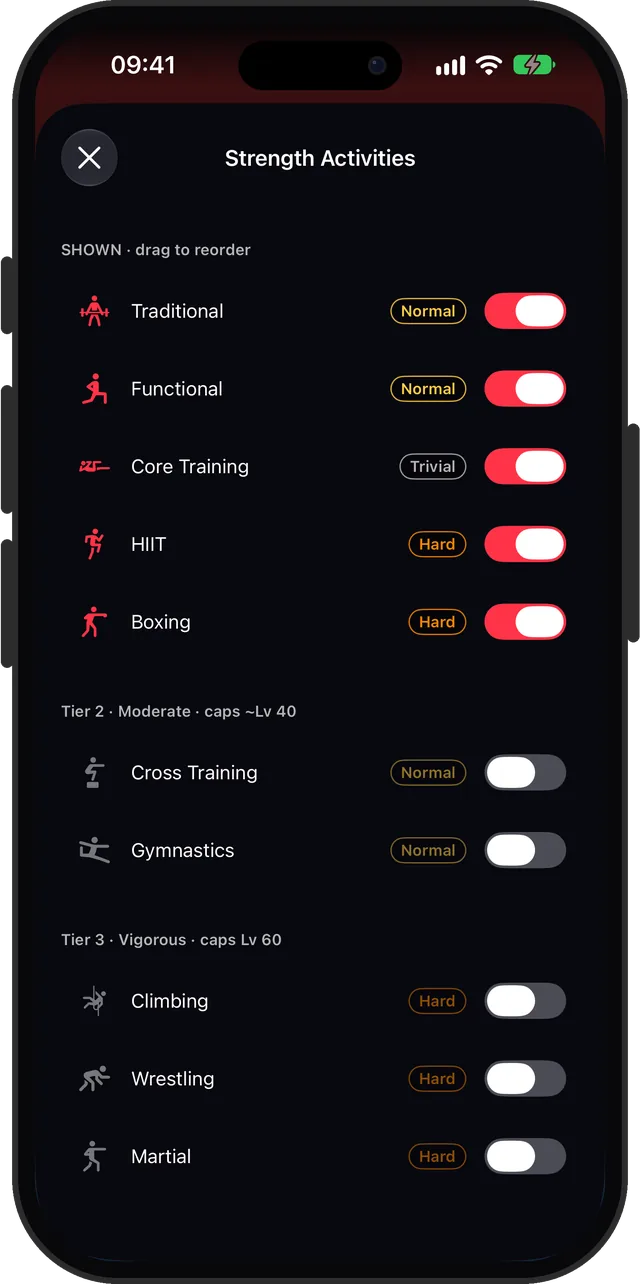
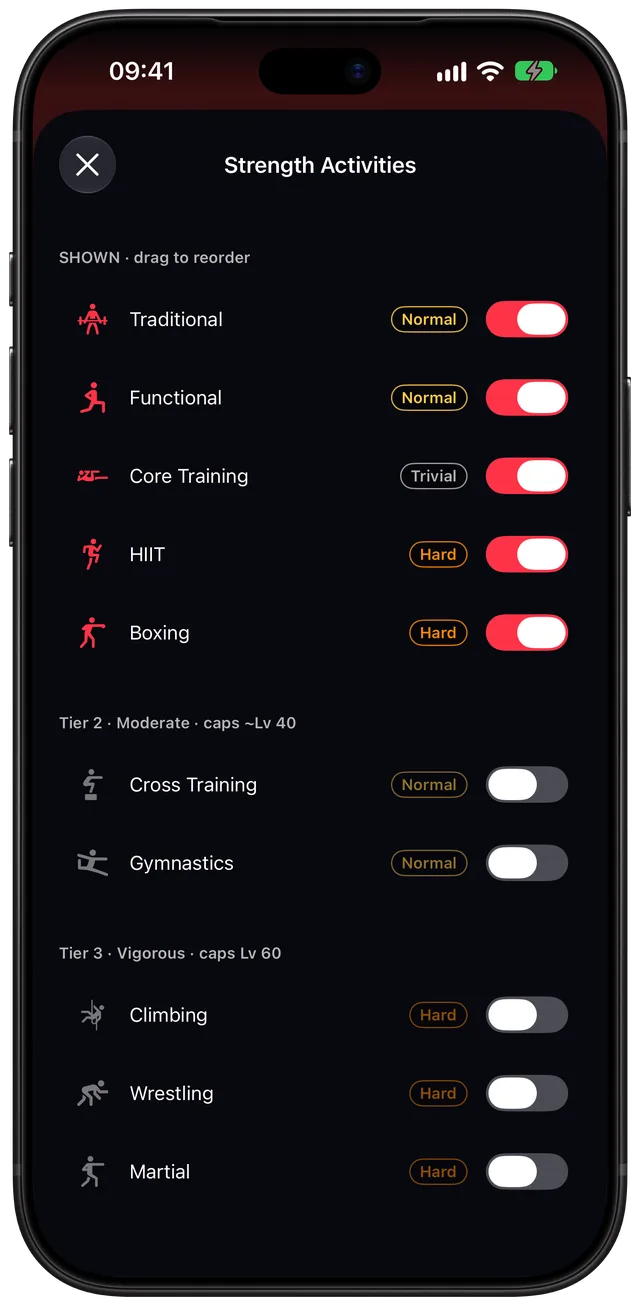
Phone images in Apple's own iPhone 18 Pro Max bezel
Replaces the drawn shell (and its painted island) with Apple's product bezel from Design Resources,
via Holocron tools/web-frames/apple_bezel.py; the bezel PNGs stay outside the repo. Any island already
in a capture is erased first so Apple's smaller one doesn't show a ghost. Every framed shot is now
640x1306 (Rise 600x1224); img width/height updated to match, PNG twins regenerated.
Layouts unchanged: Emil's call (Holocron brand.md 2026-11-01).

diff --git a/index.html b/index.html
@@ -197,7 +197,7 @@
       </div>
     </div>
     <div class="hero-art">
-      <img class="screen" src="/assets/shot-home.webp" onerror="this.onerror=null;this.src='/assets/shot-home.png'" alt="CharacterSheet on iPhone: a level 29 character with six stats, a 21-day Momentum streak, Daily willpower and quests" width="640" height="1284" fetchpriority="high">
+      <img class="screen" src="/assets/shot-home.webp" onerror="this.onerror=null;this.src='/assets/shot-home.png'" alt="CharacterSheet on iPhone: a level 29 character with six stats, a 21-day Momentum streak, Daily willpower and quests" width="640" height="1306" fetchpriority="high">
     </div>
   </div>
 </section>
@@ -317,101 +317,101 @@
       <div class="shots-track">
         <div class="shots-set">
           <figure>
-            <img class="screen" src="/assets/shot-home.webp" onerror="this.onerror=null;this.src='/assets/shot-home.png'" alt="CharacterSheet Home: a level 29 character with six stats, a 21-day Momentum streak, Daily willpower and quests" loading="lazy" width="640" height="1284">
+            <img class="screen" src="/assets/shot-home.webp" onerror="this.onerror=null;this.src='/assets/shot-home.png'" alt="CharacterSheet Home: a level 29 character with six stats, a 21-day Momentum streak, Daily willpower and quests" loading="lazy" width="640" height="1306">
             <figcaption>Level up in real life</figcaption>
           </figure>
           <figure>
-            <img class="screen" src="/assets/shot-recap.webp" onerror="this.onerror=null;this.src='/assets/shot-recap.png'" alt="The recap of yesterday: the XP each stat earned, session by session" loading="lazy" width="640" height="1284">
+            <img class="screen" src="/assets/shot-recap.webp" onerror="this.onerror=null;this.src='/assets/shot-recap.png'" alt="The recap of yesterday: the XP each stat earned, session by session" loading="lazy" width="640" height="1306">
             <figcaption>Every workout earns XP</figcaption>
           </figure>
           <figure>
-            <img class="screen" src="/assets/shot-stats.webp" onerror="this.onerror=null;this.src='/assets/shot-stats.png'" alt="The Stats tab: an XP bar and a ten-day strip for each stat" loading="lazy" width="640" height="1284">
+            <img class="screen" src="/assets/shot-stats.webp" onerror="this.onerror=null;this.src='/assets/shot-stats.png'" alt="The Stats tab: an XP bar and a ten-day strip for each stat" loading="lazy" width="640" height="1306">
             <figcaption>Six stats to train</figcaption>
           </figure>
           <figure>
-            <img class="screen" src="/assets/shot-radar.webp" onerror="this.onerror=null;this.src='/assets/shot-radar.png'" alt="The Stats tab: a radar of the six stats with the level, the rank and the stat holding it" loading="lazy" width="640" height="1284">
+            <img class="screen" src="/assets/shot-radar.webp" onerror="this.onerror=null;this.src='/assets/shot-radar.png'" alt="The Stats tab: a radar of the six stats with the level, the rank and the stat holding it" loading="lazy" width="640" height="1306">
             <figcaption>See where you stand</figcaption>
           </figure>
           <figure>
-            <img class="screen" src="/assets/shot-quests.webp" onerror="this.onerror=null;this.src='/assets/shot-quests.png'" alt="The Quests board: an urgent quest with a countdown, and today&#x27;s quests" loading="lazy" width="640" height="1284">
+            <img class="screen" src="/assets/shot-quests.webp" onerror="this.onerror=null;this.src='/assets/shot-quests.png'" alt="The Quests board: an urgent quest with a countdown, and today&#x27;s quests" loading="lazy" width="640" height="1306">
             <figcaption>Quests for the real world</figcaption>
           </figure>
           <figure>
-            <img class="screen" src="/assets/shot-buffs.webp" onerror="this.onerror=null;this.src='/assets/shot-buffs.png'" alt="The buffs panel: Momentum, Well Rested, On Track and Weighed In add up to 51% bonus XP" loading="lazy" width="640" height="1284">
+            <img class="screen" src="/assets/shot-buffs.webp" onerror="this.onerror=null;this.src='/assets/shot-buffs.png'" alt="The buffs panel: Momentum, Well Rested, On Track and Weighed In add up to 51% bonus XP" loading="lazy" width="640" height="1306">
             <figcaption>Stack buffs for bonus XP</figcaption>
           </figure>
           <figure>
-            <img class="screen" src="/assets/shot-body.webp" onerror="this.onerror=null;this.src='/assets/shot-body.png'" alt="The Body tab: sleep, water and weight charts from Apple Health" loading="lazy" width="640" height="1284">
+            <img class="screen" src="/assets/shot-body.webp" onerror="this.onerror=null;this.src='/assets/shot-body.png'" alt="The Body tab: sleep, water and weight charts from Apple Health" loading="lazy" width="640" height="1306">
             <figcaption>Sleep, water, weight</figcaption>
           </figure>
           <figure>
-            <img class="screen" src="/assets/shot-log.webp" onerror="this.onerror=null;this.src='/assets/shot-log.png'" alt="The Log tab: this week&#x27;s minutes and XP over eight weekly bars" loading="lazy" width="640" height="1284">
+            <img class="screen" src="/assets/shot-log.webp" onerror="this.onerror=null;this.src='/assets/shot-log.png'" alt="The Log tab: this week&#x27;s minutes and XP over eight weekly bars" loading="lazy" width="640" height="1306">
             <figcaption>Watch your weeks add up</figcaption>
           </figure>
           <figure>
-            <img class="screen" src="/assets/shot-workouts.webp" onerror="this.onerror=null;this.src='/assets/shot-workouts.png'" alt="Strength activities, each with its difficulty: Traditional, Functional, Core Training, HIIT, Boxing" loading="lazy" width="640" height="1284">
+            <img class="screen" src="/assets/shot-workouts.webp" onerror="this.onerror=null;this.src='/assets/shot-workouts.png'" alt="Strength activities, each with its difficulty: Traditional, Functional, Core Training, HIIT, Boxing" loading="lazy" width="640" height="1306">
             <figcaption>30+ workouts to choose from</figcaption>
           </figure>
           <figure>
-            <img class="screen" src="/assets/shot-setup.webp" onerror="this.onerror=null;this.src='/assets/shot-setup.png'" alt="Setting up a Strength session: 30 minutes of Traditional, worth 234 XP" loading="lazy" width="640" height="1284">
+            <img class="screen" src="/assets/shot-setup.webp" onerror="this.onerror=null;this.src='/assets/shot-setup.png'" alt="Setting up a Strength session: 30 minutes of Traditional, worth 234 XP" loading="lazy" width="640" height="1306">
             <figcaption>Pick an activity</figcaption>
           </figure>
           <figure>
-            <img class="screen" src="/assets/shot-timer.webp" onerror="this.onerror=null;this.src='/assets/shot-timer.png'" alt="A running Strength session: 21 minutes on the timer and 105 XP so far" loading="lazy" width="640" height="1284">
+            <img class="screen" src="/assets/shot-timer.webp" onerror="this.onerror=null;this.src='/assets/shot-timer.png'" alt="A running Strength session: 21 minutes on the timer and 105 XP so far" loading="lazy" width="640" height="1306">
             <figcaption>Start the timer</figcaption>
           </figure>
           <figure>
-            <img class="screen" src="/assets/shot-complete.webp" onerror="this.onerror=null;this.src='/assets/shot-complete.png'" alt="A finished session: 171 XP earned, with base XP, effort and buffs listed" loading="lazy" width="640" height="1284">
+            <img class="screen" src="/assets/shot-complete.webp" onerror="this.onerror=null;this.src='/assets/shot-complete.png'" alt="A finished session: 171 XP earned, with base XP, effort and buffs listed" loading="lazy" width="640" height="1306">
             <figcaption>See what it paid</figcaption>
           </figure>
         </div>
         <div class="shots-set" aria-hidden="true">
           <figure>
-            <img class="screen" src="/assets/shot-home.webp" onerror="this.onerror=null;this.src='/assets/shot-home.png'" alt="" loading="lazy" width="640" height="1284">
+            <img class="screen" src="/assets/shot-home.webp" onerror="this.onerror=null;this.src='/assets/shot-home.png'" alt="" loading="lazy" width="640" height="1306">
             <figcaption>Level up in real life</figcaption>
           </figure>
           <figure>
-            <img class="screen" src="/assets/shot-recap.webp" onerror="this.onerror=null;this.src='/assets/shot-recap.png'" alt="" loading="lazy" width="640" height="1284">
+            <img class="screen" src="/assets/shot-recap.webp" onerror="this.onerror=null;this.src='/assets/shot-recap.png'" alt="" loading="lazy" width="640" height="1306">
             <figcaption>Every workout earns XP</figcaption>
           </figure>
           <figure>
-            <img class="screen" src="/assets/shot-stats.webp" onerror="this.onerror=null;this.src='/assets/shot-stats.png'" alt="" loading="lazy" width="640" height="1284">
+            <img class="screen" src="/assets/shot-stats.webp" onerror="this.onerror=null;this.src='/assets/shot-stats.png'" alt="" loading="lazy" width="640" height="1306">
             <figcaption>Six stats to train</figcaption>
           </figure>
           <figure>
-            <img class="screen" src="/assets/shot-radar.webp" onerror="this.onerror=null;this.src='/assets/shot-radar.png'" alt="" loading="lazy" width="640" height="1284">
+            <img class="screen" src="/assets/shot-radar.webp" onerror="this.onerror=null;this.src='/assets/shot-radar.png'" alt="" loading="lazy" width="640" height="1306">
             <figcaption>See where you stand</figcaption>
           </figure>
           <figure>
-            <img class="screen" src="/assets/shot-quests.webp" onerror="this.onerror=null;this.src='/assets/shot-quests.png'" alt="" loading="lazy" width="640" height="1284">
+            <img class="screen" src="/assets/shot-quests.webp" onerror="this.onerror=null;this.src='/assets/shot-quests.png'" alt="" loading="lazy" width="640" height="1306">
             <figcaption>Quests for the real world</figcaption>
           </figure>
           <figure>
-            <img class="screen" src="/assets/shot-buffs.webp" onerror="this.onerror=null;this.src='/assets/shot-buffs.png'" alt="" loading="lazy" width="640" height="1284">
+            <img class="screen" src="/assets/shot-buffs.webp" onerror="this.onerror=null;this.src='/assets/shot-buffs.png'" alt="" loading="lazy" width="640" height="1306">
             <figcaption>Stack buffs for bonus XP</figcaption>
           </figure>
           <figure>
-            <img class="screen" src="/assets/shot-body.webp" onerror="this.onerror=null;this.src='/assets/shot-body.png'" alt="" loading="lazy" width="640" height="1284">
+            <img class="screen" src="/assets/shot-body.webp" onerror="this.onerror=null;this.src='/assets/shot-body.png'" alt="" loading="lazy" width="640" height="1306">
             <figcaption>Sleep, water, weight</figcaption>
           </figure>
           <figure>
-            <img class="screen" src="/assets/shot-log.webp" onerror="this.onerror=null;this.src='/assets/shot-log.png'" alt="" loading="lazy" width="640" height="1284">
+            <img class="screen" src="/assets/shot-log.webp" onerror="this.onerror=null;this.src='/assets/shot-log.png'" alt="" loading="lazy" width="640" height="1306">
             <figcaption>Watch your weeks add up</figcaption>
           </figure>
           <figure>
-            <img class="screen" src="/assets/shot-workouts.webp" onerror="this.onerror=null;this.src='/assets/shot-workouts.png'" alt="" loading="lazy" width="640" height="1284">
+            <img class="screen" src="/assets/shot-workouts.webp" onerror="this.onerror=null;this.src='/assets/shot-workouts.png'" alt="" loading="lazy" width="640" height="1306">
             <figcaption>30+ workouts to choose from</figcaption>
           </figure>
           <figure>
-            <img class="screen" src="/assets/shot-setup.webp" onerror="this.onerror=null;this.src='/assets/shot-setup.png'" alt="" loading="lazy" width="640" height="1284">
+            <img class="screen" src="/assets/shot-setup.webp" onerror="this.onerror=null;this.src='/assets/shot-setup.png'" alt="" loading="lazy" width="640" height="1306">
             <figcaption>Pick an activity</figcaption>
           </figure>
           <figure>
-            <img class="screen" src="/assets/shot-timer.webp" onerror="this.onerror=null;this.src='/assets/shot-timer.png'" alt="" loading="lazy" width="640" height="1284">
+            <img class="screen" src="/assets/shot-timer.webp" onerror="this.onerror=null;this.src='/assets/shot-timer.png'" alt="" loading="lazy" width="640" height="1306">
             <figcaption>Start the timer</figcaption>
           </figure>
           <figure>
-            <img class="screen" src="/assets/shot-complete.webp" onerror="this.onerror=null;this.src='/assets/shot-complete.png'" alt="" loading="lazy" width="640" height="1284">
+            <img class="screen" src="/assets/shot-complete.webp" onerror="this.onerror=null;this.src='/assets/shot-complete.png'" alt="" loading="lazy" width="640" height="1306">
             <figcaption>See what it paid</figcaption>
           </figure>
         </div>

diff --git a/guides/level-up-in-real-life/index.html b/guides/level-up-in-real-life/index.html
@@ -136,7 +136,7 @@
 <p>It is tempting to pour everything into the stat you already like. The fix is one rule: your character is only as high as its lowest stat. Strength 30 and Wisdom 4 is a level 4 character.</p>
 <p>That rule does the nagging for you. The fastest way up is always the stat you have been avoiding.</p>
 <figure>
-  <img class="screen" src="/assets/shot-radar.webp" onerror="this.onerror=null;this.src='/assets/shot-radar.png'" alt="The Stats tab in CharacterSheet: a radar of six stats for a level 29 character, held back by Wisdom at 29, with Agility strongest at 38" loading="lazy" width="640" height="1284">
+  <img class="screen" src="/assets/shot-radar.webp" onerror="this.onerror=null;this.src='/assets/shot-radar.png'" alt="The Stats tab in CharacterSheet: a radar of six stats for a level 29 character, held back by Wisdom at 29, with Agility strongest at 38" loading="lazy" width="640" height="1306">
   <figcaption>The shape shows where you are lopsided. Here Wisdom holds the level.</figcaption>
 </figure>
 
@@ -152,7 +152,7 @@
   <li>Check the Stats tab now and then. The radar shows which stat is holding your level.</li>
 </ol>
 <figure>
-  <img class="screen" src="/assets/shot-workouts.webp" onerror="this.onerror=null;this.src='/assets/shot-workouts.png'" alt="Strength activities in CharacterSheet with a difficulty tag on each: Traditional, Functional, Core Training, HIIT and Boxing switched on" loading="lazy" width="640" height="1284">
+  <img class="screen" src="/assets/shot-workouts.webp" onerror="this.onerror=null;this.src='/assets/shot-workouts.png'" alt="Strength activities in CharacterSheet with a difficulty tag on each: Traditional, Functional, Core Training, HIIT and Boxing switched on" loading="lazy" width="640" height="1306">
   <figcaption>Switch on what you do. The tag is how hard each one is for your level.</figcaption>
 </figure>
 <div class="note-box">CharacterSheet needs an iPhone on iOS 26 or later. An Apple Watch is optional.</div>

diff --git a/guides/sleep-water-weight-habits/index.html b/guides/sleep-water-weight-habits/index.html
@@ -141,11 +141,11 @@
 </ul>
 <p>Buffs add bonus XP to everything you earn that day, and they add up. Sleep well, drink your water and step on the scale, and a workout pays 30% more before any other buff.</p>
 <figure>
-  <img class="screen" src="/assets/shot-body.webp" onerror="this.onerror=null;this.src='/assets/shot-body.png'" alt="The Body tab in CharacterSheet: sleep and water charts for the last month with their buffs active, and quick buttons to log water" loading="lazy" width="640" height="1284">
+  <img class="screen" src="/assets/shot-body.webp" onerror="this.onerror=null;this.src='/assets/shot-body.png'" alt="The Body tab in CharacterSheet: sleep and water charts for the last month with their buffs active, and quick buttons to log water" loading="lazy" width="640" height="1306">
   <figcaption>Sleep, water and weight on the Body tab, each with its buff.</figcaption>
 </figure>
 <figure>
-  <img class="screen" src="/assets/shot-buffs.webp" onerror="this.onerror=null;this.src='/assets/shot-buffs.png'" alt="The buffs panel in CharacterSheet: Well Rested at 20%, On Track and Weighed In at 5% each, with Momentum, 51% in total" loading="lazy" width="640" height="1284">
+  <img class="screen" src="/assets/shot-buffs.webp" onerror="this.onerror=null;this.src='/assets/shot-buffs.png'" alt="The buffs panel in CharacterSheet: Well Rested at 20%, On Track and Weighed In at 5% each, with Momentum, 51% in total" loading="lazy" width="640" height="1306">
   <figcaption>Every buff, what it adds, and how to earn it.</figcaption>
 </figure>
 <div class="note-box">CharacterSheet reads sleep, weight and water from Apple Health on your iPhone, and saves the water and weigh-ins you log in the app back to it. None of it is sent to me. It is a habit tracker, not medical advice.</div>

diff --git a/guides/track-reading-and-study-time/index.html b/guides/track-reading-and-study-time/index.html
@@ -135,11 +135,11 @@
   <li>When you finish, the minutes land on Wisdom's XP bar and in the Log.</li>
 </ol>
 <figure>
-  <img class="screen" src="/assets/shot-log.webp" onerror="this.onerror=null;this.src='/assets/shot-log.png'" alt="The Log tab in CharacterSheet: 2 hours 44 minutes trained this week over eight weekly bars, coloured by stat, with a filter for each stat" loading="lazy" width="640" height="1284">
+  <img class="screen" src="/assets/shot-log.webp" onerror="this.onerror=null;this.src='/assets/shot-log.png'" alt="The Log tab in CharacterSheet: 2 hours 44 minutes trained this week over eight weekly bars, coloured by stat, with a filter for each stat" loading="lazy" width="640" height="1306">
   <figcaption>The Log adds up the weeks. Filter it to Wisdom to see only reading and study time.</figcaption>
 </figure>
 <figure>
-  <img class="screen" src="/assets/shot-recap.webp" onerror="this.onerror=null;this.src='/assets/shot-recap.png'" alt="The recap of yesterday in CharacterSheet: XP earned per stat, including 35 minutes of reading for Wisdom" loading="lazy" width="640" height="1284">
+  <img class="screen" src="/assets/shot-recap.webp" onerror="this.onerror=null;this.src='/assets/shot-recap.png'" alt="The recap of yesterday in CharacterSheet: XP earned per stat, including 35 minutes of reading for Wisdom" loading="lazy" width="640" height="1306">
   <figcaption>The next morning, a recap of what yesterday paid.</figcaption>
 </figure>
 <p>The same goes for the quiet practices. Meditation, journaling and breathwork train Spirit, and CharacterSheet can save those sessions to Apple Health as Mindful Minutes.</p>

diff --git a/guides/workout-streak/index.html b/guides/workout-streak/index.html
@@ -143,11 +143,11 @@
   <li>Come back after a few days away and a comeback buff, Arise, is waiting. You spend it by training on the day you return.</li>
 </ul>
 <figure>
-  <img class="screen" src="/assets/shot-home.webp" onerror="this.onerror=null;this.src='/assets/shot-home.png'" alt="CharacterSheet Home: a level 29 character with a 21-day Momentum streak worth 21% bonus XP, and this week&#x27;s days under it" loading="lazy" width="640" height="1284">
+  <img class="screen" src="/assets/shot-home.webp" onerror="this.onerror=null;this.src='/assets/shot-home.png'" alt="CharacterSheet Home: a level 29 character with a 21-day Momentum streak worth 21% bonus XP, and this week&#x27;s days under it" loading="lazy" width="640" height="1306">
   <figcaption>Momentum on Home: 21 days in a row, 21% bonus XP.</figcaption>
 </figure>
 <figure>
-  <img class="screen" src="/assets/shot-buffs.webp" onerror="this.onerror=null;this.src='/assets/shot-buffs.png'" alt="The buffs panel in CharacterSheet: Momentum at 21%, Well Rested at 20%, On Track and Weighed In at 5% each, 51% in total" loading="lazy" width="640" height="1284">
+  <img class="screen" src="/assets/shot-buffs.webp" onerror="this.onerror=null;this.src='/assets/shot-buffs.png'" alt="The buffs panel in CharacterSheet: Momentum at 21%, Well Rested at 20%, On Track and Weighed In at 5% each, 51% in total" loading="lazy" width="640" height="1306">
   <figcaption>Momentum is one buff. The others stack on top.</figcaption>
 </figure>
 <div class="note-box">CharacterSheet needs an iPhone on iOS 26 or later. An Apple Watch is optional.</div>

diff --git a/guides/gamify-your-workouts/index.html b/guides/gamify-your-workouts/index.html
@@ -148,11 +148,11 @@
   <li>Neglect a stat and it starts losing XP each night. It never drops a level.</li>
 </ol>
 <figure>
-  <img class="screen" src="/assets/shot-setup.webp" onerror="this.onerror=null;this.src='/assets/shot-setup.png'" alt="Setting up a Strength session in CharacterSheet: Traditional strength training for 30 minutes, worth 234 XP with buffs" loading="lazy" width="640" height="1284">
+  <img class="screen" src="/assets/shot-setup.webp" onerror="this.onerror=null;this.src='/assets/shot-setup.png'" alt="Setting up a Strength session in CharacterSheet: Traditional strength training for 30 minutes, worth 234 XP with buffs" loading="lazy" width="640" height="1306">
   <figcaption>Pick the activity and the time. The XP it pays is shown before you start.</figcaption>
 </figure>
 <figure>
-  <img class="screen" src="/assets/shot-complete.webp" onerror="this.onerror=null;this.src='/assets/shot-complete.png'" alt="A finished Strength session in CharacterSheet: 171 XP earned, split into base XP, effort and buffs" loading="lazy" width="640" height="1284">
+  <img class="screen" src="/assets/shot-complete.webp" onerror="this.onerror=null;this.src='/assets/shot-complete.png'" alt="A finished Strength session in CharacterSheet: 171 XP earned, split into base XP, effort and buffs" loading="lazy" width="640" height="1306">
   <figcaption>What the session paid, and why.</figcaption>
 </figure>
 <div class="note-box">CharacterSheet needs an iPhone on iOS 26 or later. An Apple Watch is optional.</div>

diff --git a/guides/daily-habits-that-stick/index.html b/guides/daily-habits-that-stick/index.html
@@ -145,7 +145,7 @@
   <li>A day with none done costs Willpower some XP, so the stat reflects how the week actually went.</li>
 </ol>
 <figure>
-  <img class="screen" src="/assets/shot-home.webp" onerror="this.onerror=null;this.src='/assets/shot-home.png'" alt="CharacterSheet Home with the Daily willpower card: two of three dailies done, and No snacking after dinner still open" loading="lazy" width="640" height="1284">
+  <img class="screen" src="/assets/shot-home.webp" onerror="this.onerror=null;this.src='/assets/shot-home.png'" alt="CharacterSheet Home with the Daily willpower card: two of three dailies done, and No snacking after dinner still open" loading="lazy" width="640" height="1306">
   <figcaption>Two done, one to go.</figcaption>
 </figure>
 <div class="note-box">A Home Screen widget shows the dailies you have left. CharacterSheet needs an iPhone on iOS 26 or later. An Apple Watch is optional.</div>

diff --git a/_gen/make_assets.py b/_gen/make_assets.py
@@ -15,7 +15,13 @@
 Needs Pillow. Run from anywhere: python3 _gen/make_assets.py
 """
 import os
+import sys
 from PIL import Image, ImageDraw, ImageFont
+
+# Apple's own product bezel since 2026-11-01 (Holocron brand.md; bezel PNGs in ~/Documents/Xcode/AppleBezels,
+# never in this repo). The bezel carries the Dynamic Island and camera, so nothing is painted on the capture.
+sys.path.insert(0, os.path.expanduser("~/Documents/Holocron/tools/web-frames"))
+from apple_bezel import frame as apple_frame  # noqa: E402
 
 GEN = os.path.dirname(os.path.abspath(__file__))
 SITE = os.path.dirname(GEN)
@@ -53,42 +59,9 @@ SHOTS = {
 
 
 def shell(img):
-    """The web shell (buttons protrude) plus the store Dynamic Island."""
-    img = img.convert("RGBA")
-    sw, height = img.size
-    scr_r = int(sw * SCREEN_R_RATIO)
-    bez = max(6, int(sw * BEZEL_RATIO))
-    rimw = max(2, int(sw * RIM_RATIO))
-    bwid = max(3, rimw * 2)
+    """The capture in Apple's iPhone bezel (Dynamic Island and camera included)."""
+    return apple_frame(img)
 
-    fw, fh = sw + (bez + rimw) * 2, height + (bez + rimw) * 2
-    W, H = fw + bwid * 2, fh
-    ox = bwid
-    out = Image.new("RGBA", (W, H), (0, 0, 0, 0))
-    d = ImageDraw.Draw(out)
-
-    unit = fh / 100
-    for y0, y1 in [(20, 26), (30, 40), (42, 52)]:                     # action, vol up, vol down
-        d.rounded_rectangle([2, int(unit * y0), ox + 2, int(unit * y1)],
-                            radius=bwid // 2, fill=RIM_COLOR)
-    d.rounded_rectangle([ox + fw - 2, int(unit * 33), W - 2, int(unit * 50)],   # power
-                        radius=bwid // 2, fill=RIM_COLOR)
-
-    d.rounded_rectangle([(ox, 0), (ox + fw - 1, fh - 1)], radius=scr_r + bez + rimw, fill=RIM_COLOR)
-    d.rounded_rectangle([(ox + rimw, rimw), (ox + fw - rimw - 1, fh - rimw - 1)],
-                        radius=scr_r + bez, fill=(8, 8, 10, 255))
-
-    m = Image.new("L", img.size, 0)
-    ImageDraw.Draw(m).rounded_rectangle([(0, 0), img.size], radius=scr_r, fill=255)
-    img.putalpha(m)
-    out.paste(img, (ox + bez + rimw, bez + rimw), img)
-
-    iw, ih = round(sw * ISLAND["w_ratio"]), round(sw * ISLAND["h_ratio"])
-    top = bez + rimw + round(sw * ISLAND["top_ratio"])
-    ix = ox + bez + rimw + (sw - iw) // 2
-    d.rounded_rectangle([ix, top, ix + iw, top + ih], radius=ih // 2, fill=(0, 0, 0, 255))
-    out.alpha_composite(camera_lens(ih), (ix + iw - ih, top))
-    return out
 
 
 def camera_lens(ih):

diff --git a/_gen/build.py b/_gen/build.py
@@ -203,7 +203,7 @@ def badge(campaign, label="Download CharacterSheet on the App Store"):
 
 def figure(src, alt, caption):
     return f"""<figure>
-  <img class="screen" src="/assets/{src}" alt="{html.escape(alt)}" loading="lazy" width="640" height="1284">
+  <img class="screen" src="/assets/{src}" alt="{html.escape(alt)}" loading="lazy" width="640" height="1306">
   <figcaption>{caption}</figcaption>
 </figure>"""
 
@@ -853,7 +853,7 @@ def rank_ladder():
 
 def marquee_set(hidden):
     figs = "\n".join(f"""          <figure>
-            <img class="screen" src="/assets/{src}" alt="{'' if hidden else html.escape(alt)}" loading="lazy" width="640" height="1284">
+            <img class="screen" src="/assets/{src}" alt="{'' if hidden else html.escape(alt)}" loading="lazy" width="640" height="1306">
             <figcaption>{cap}</figcaption>
           </figure>""" for src, alt, cap in SHOTS)
     aria = ' aria-hidden="true"' if hidden else ""
@@ -890,7 +890,7 @@ home_body = f"""
       </div>
     </div>
     <div class="hero-art">
-      <img class="screen" src="/assets/shot-home.webp" alt="CharacterSheet on iPhone: a level 29 character with six stats, a 21-day Momentum streak, Daily willpower and quests" width="640" height="1284" fetchpriority="high">
+      <img class="screen" src="/assets/shot-home.webp" alt="CharacterSheet on iPhone: a level 29 character with six stats, a 21-day Momentum streak, Daily willpower and quests" width="640" height="1306" fetchpriority="high">
     </div>
   </div>
 </section>
